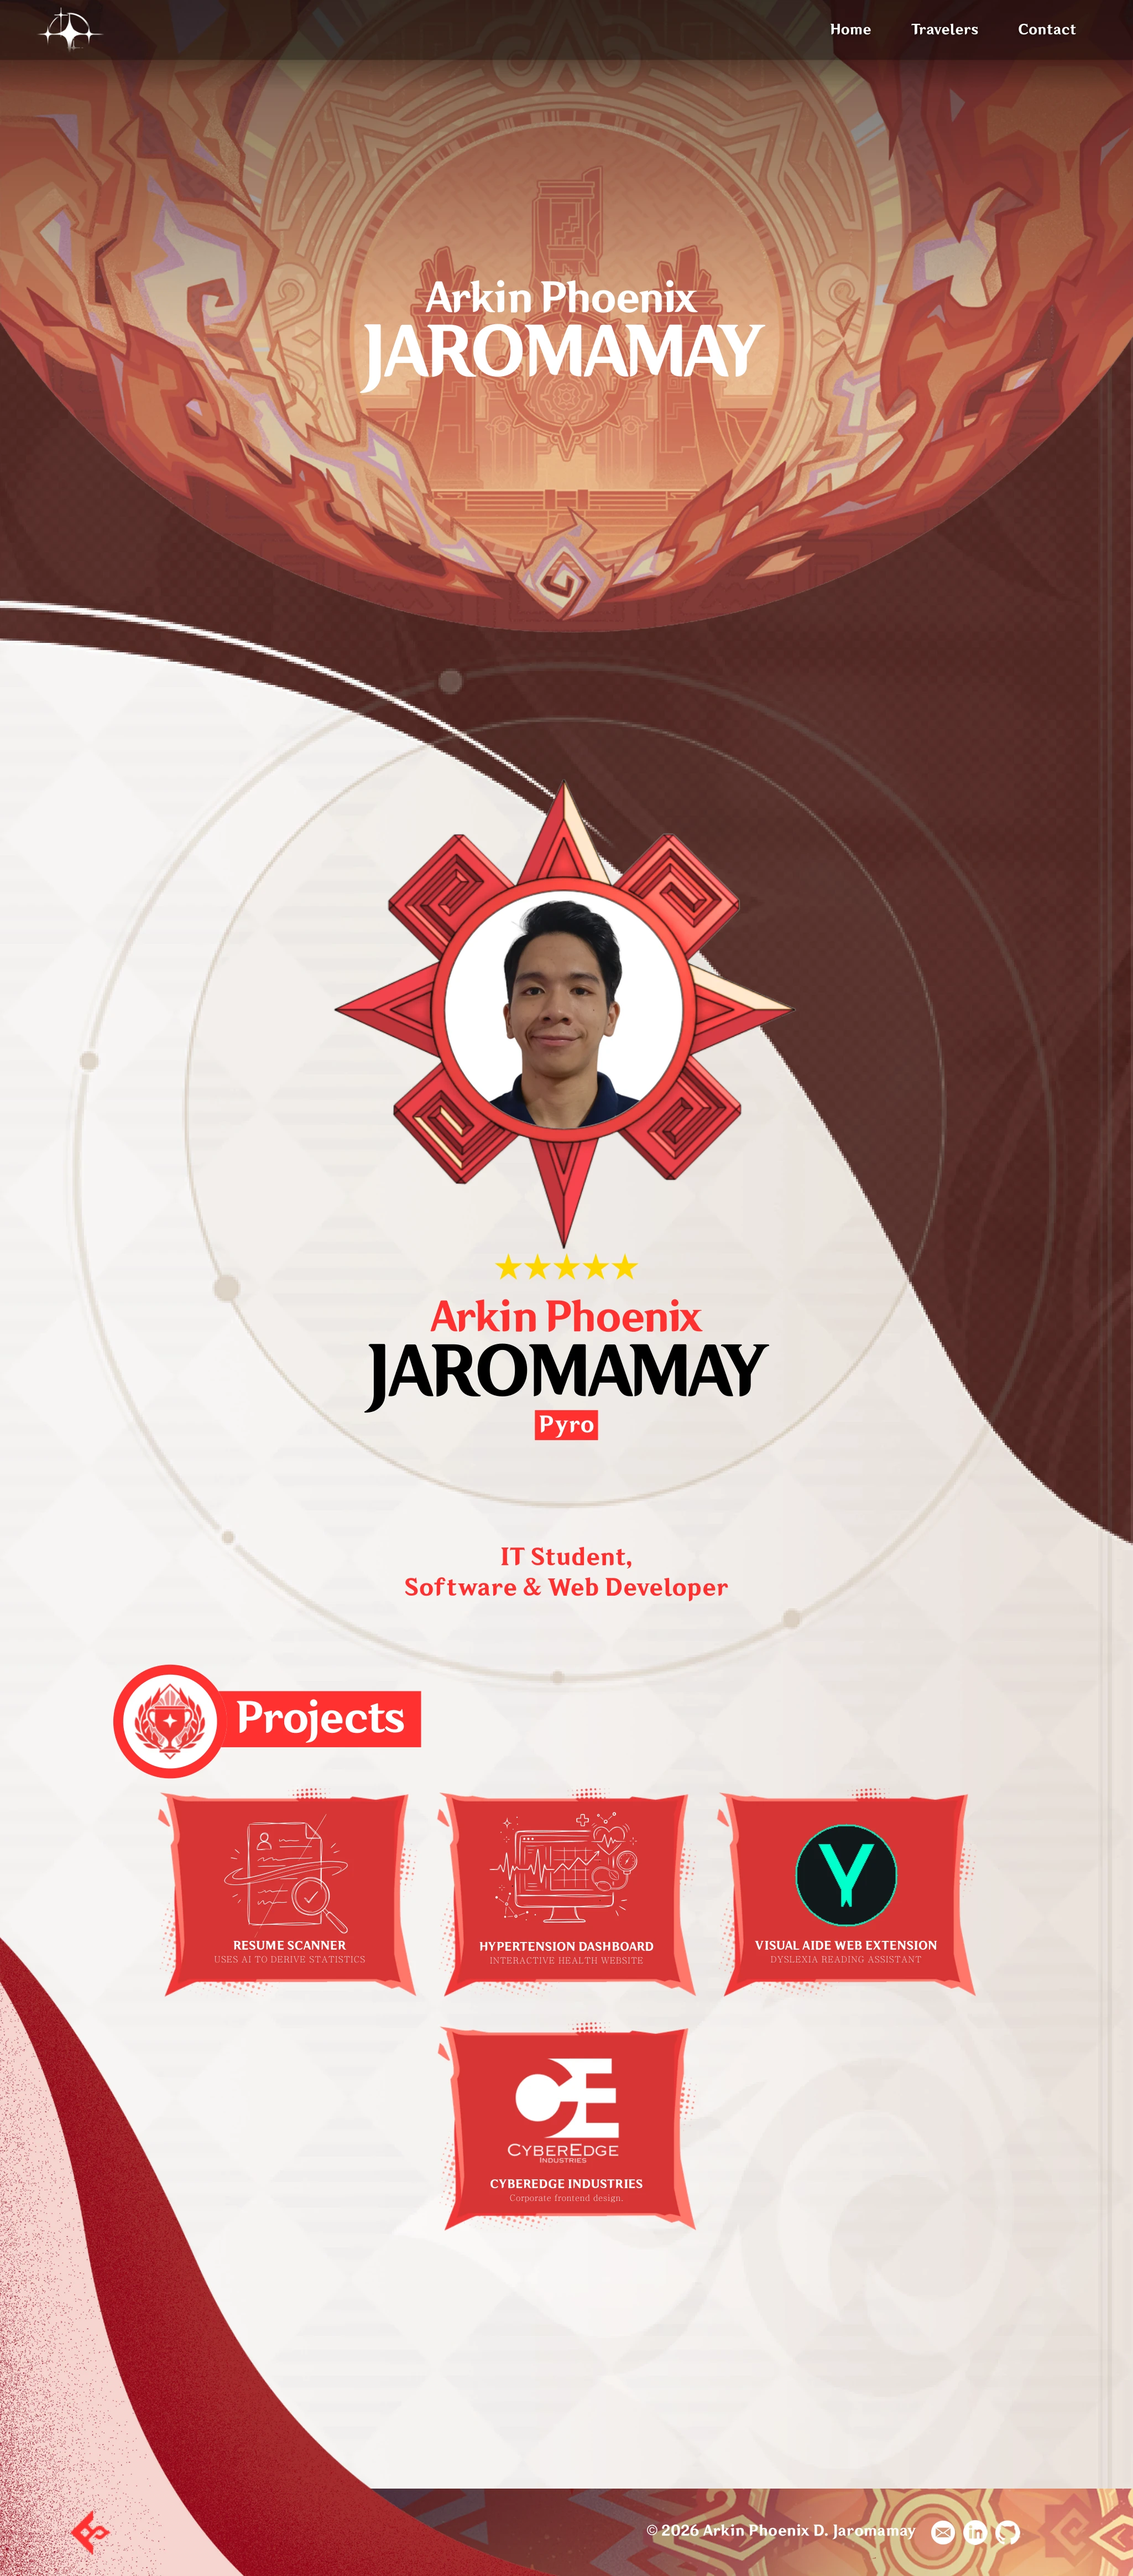
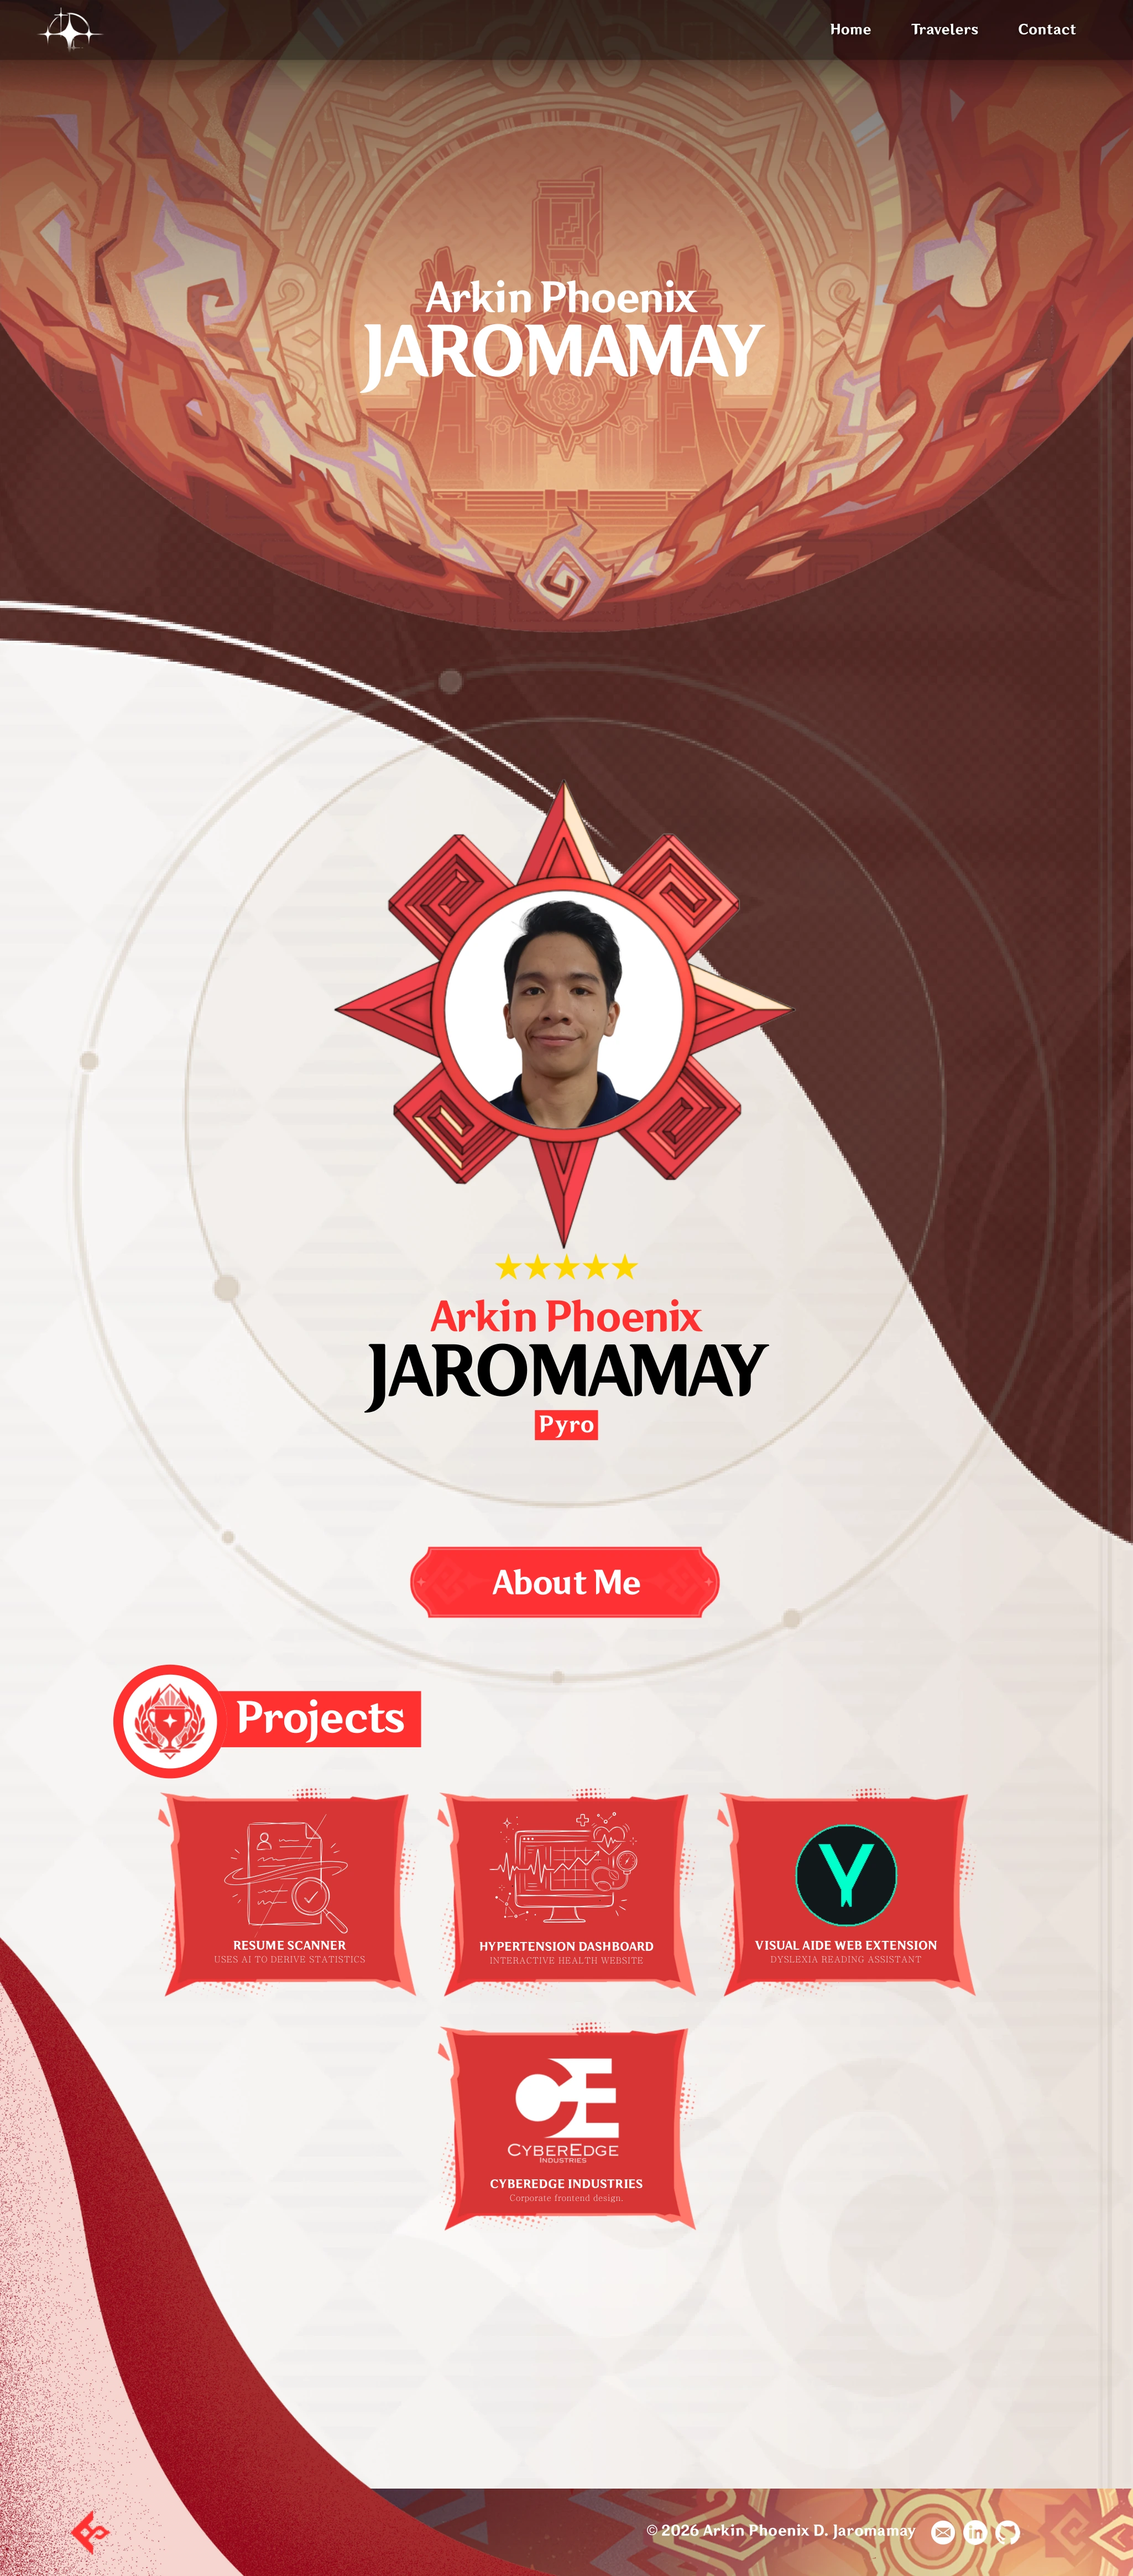
Update Arkin portfolio mockup to match PDF with About Me button and verified hotspots

Changed region(s): [[0.3436, 0.5917, 0.6559, 0.654]]

diff --git a/arkin.html b/arkin.html
@@ -40,7 +40,9 @@
       <img src="./assets/arkin/portfolio_mockup_hd.png" alt="Arkin Phoenix Jaromamay • Natlan Pyro Portfolio" class="portfolio-mockup-image" loading="eager" fetchpriority="high">
     </picture>
 
-    <!-- ==================== 1. INTERACTIVE PROJECT CARDS ==================== -->
+    <!-- ==================== 1. ABOUT ME & INTERACTIVE PROJECT CARDS ==================== -->
+    <button type="button" class="interactive-hotspot hotspot-about-me" id="hotspot-about-me" data-project="about-me" aria-label="View About Arkin Phoenix Jaromamay Details" title="About Me • Arkin Phoenix Jaromamay"></button>
+
     <button type="button" class="interactive-hotspot hotspot-card hotspot-card-resume-scanner" data-project="resume-scanner" aria-label="View Resume Scanner Details" title="Resume Scanner • AI Recruitment Statistics"></button>
     <button type="button" class="interactive-hotspot hotspot-card hotspot-card-hypertension" data-project="hypertension" aria-label="View Hypertension Dashboard Details" title="Hypertension Dashboard • Interactive Health Platform"></button>
     <button type="button" class="interactive-hotspot hotspot-card hotspot-card-visual-aide" data-project="visual-aide" aria-label="View Visual Aide Web Extension Details" title="Visual Aide Web Extension • Dyslexia Reading Assistant"></button>
@@ -111,6 +113,13 @@
         img: './assets/arkin/card_cyberedge.png',
         desc: 'A sleek, high-performance corporate landing experience and design system crafted for a forward-looking technological firm. Features responsive modular components, high-contrast cyber motifs, and optimized interactive layouts.',
         tech: ['HTML5', 'CSS3', 'JavaScript', 'Design Systems', 'Responsive Web Design', 'Figma Prototype']
+      },
+      'about-me': {
+        title: 'Arkin Phoenix Jaromamay',
+        tag: 'ARCHON\'S PROFILE • FULL-STACK & AI ENGINEER',
+        img: './assets/arkin/portrait_pyro.png',
+        desc: 'The blazing technical vanguard and AI innovator of Group 4. Architect of intelligent natural language processing engines, dynamic health monitoring platforms, and accessible user experiences. Blends deep-learning algorithms with fiery Natlan Pyro passion and clean engineering discipline.',
+        tech: ['Machine Learning', 'Python / FastAPI', 'Natural Language Processing', 'React / TypeScript', 'Healthcare Informatics', 'Accessibility (a11y)']
       }
     };
 
@@ -191,8 +200,8 @@
       document.body.style.overflow = '';
     }
 
-    // Attach click events to project cards
-    document.querySelectorAll('.hotspot-card').forEach(card => {
+    // Attach click events to project cards and About Me
+    document.querySelectorAll('.hotspot-card, .hotspot-about-me').forEach(card => {
       card.addEventListener('click', () => {
         const projId = card.getAttribute('data-project');
         openProjectModal(projId);

diff --git a/arkin.css b/arkin.css
@@ -213,15 +213,38 @@ body.arkin-portfolio-body {
 }
 
 /* =======================================================
-   4. PROJECT CARD HOTSPOTS (3-1 STAGGERED GRID)
+   4. ABOUT ME & PROJECT CARD HOTSPOTS (3-1 STAGGERED GRID)
    ======================================================= */
+/* About Me Hotspot Button */
+.hotspot-about-me {
+  left: 35.830%;
+  top: 59.935%;
+  width: 28.366%;
+  height: 3.150%;
+  border-radius: 36px;
+  border: 2px solid transparent;
+}
+
+.hotspot-about-me:hover {
+  border-color: rgba(255, 170, 119, 0.85);
+  background: rgba(255, 111, 64, 0.22);
+  box-shadow: 0 0 28px rgba(255, 111, 64, 0.8), 0 0 45px rgba(255, 170, 119, 0.55), inset 0 0 16px rgba(255, 170, 119, 0.4);
+  transform: translateY(-3px) scale(1.025);
+}
+
+.hotspot-about-me:active {
+  transform: scale(0.98);
+}
+
 .hotspot-card {
   border-radius: 14px;
+  border: 2px solid transparent;
 }
 
 .hotspot-card:hover {
-  background: rgba(255, 111, 64, 0.16);
-  box-shadow: 0 0 24px rgba(255, 111, 64, 0.65), 0 0 45px rgba(255, 170, 119, 0.45), inset 0 0 16px rgba(255, 170, 119, 0.35);
+  border-color: rgba(255, 170, 119, 0.85);
+  background: rgba(255, 111, 64, 0.18);
+  box-shadow: 0 0 28px rgba(255, 111, 64, 0.8), 0 0 50px rgba(255, 170, 119, 0.55), inset 0 0 20px rgba(255, 170, 119, 0.4);
   transform: translateY(-5px) scale(1.02);
 }
 
@@ -266,10 +289,10 @@ body.arkin-portfolio-body {
    ======================================================= */
 /* Back Button (Bottom-Left Stylized Arrow) */
 .hotspot-back-btn {
-  left: 5.661%;
-  top: 97.251%;
-  width: 4.685%;
-  height: 2.062%;
+  left: 6.032%;
+  top: 97.431%;
+  width: 3.953%;
+  height: 1.774%;
   border-radius: 50%;
 }
 
@@ -300,26 +323,26 @@ body.arkin-portfolio-body {
 
 /* Email Icon */
 .hotspot-footer-email {
-  left: 81.991%;
-  top: 97.723%;
-  width: 2.440%;
-  height: 1.117%;
+  left: 82.186%;
+  top: 97.848%;
+  width: 2.108%;
+  height: 0.928%;
 }
 
 /* LinkedIn Icon */
 .hotspot-footer-linkedin {
-  left: 84.919%;
-  top: 97.723%;
-  width: 2.440%;
-  height: 1.117%;
+  left: 85.027%;
+  top: 97.848%;
+  width: 2.118%;
+  height: 0.936%;
 }
 
 /* GitHub Icon */
 .hotspot-footer-github {
-  left: 87.750%;
-  top: 97.723%;
-  width: 2.440%;
-  height: 1.117%;
+  left: 87.897%;
+  top: 97.848%;
+  width: 2.118%;
+  height: 0.936%;
 }
 
 /* =======================================================
